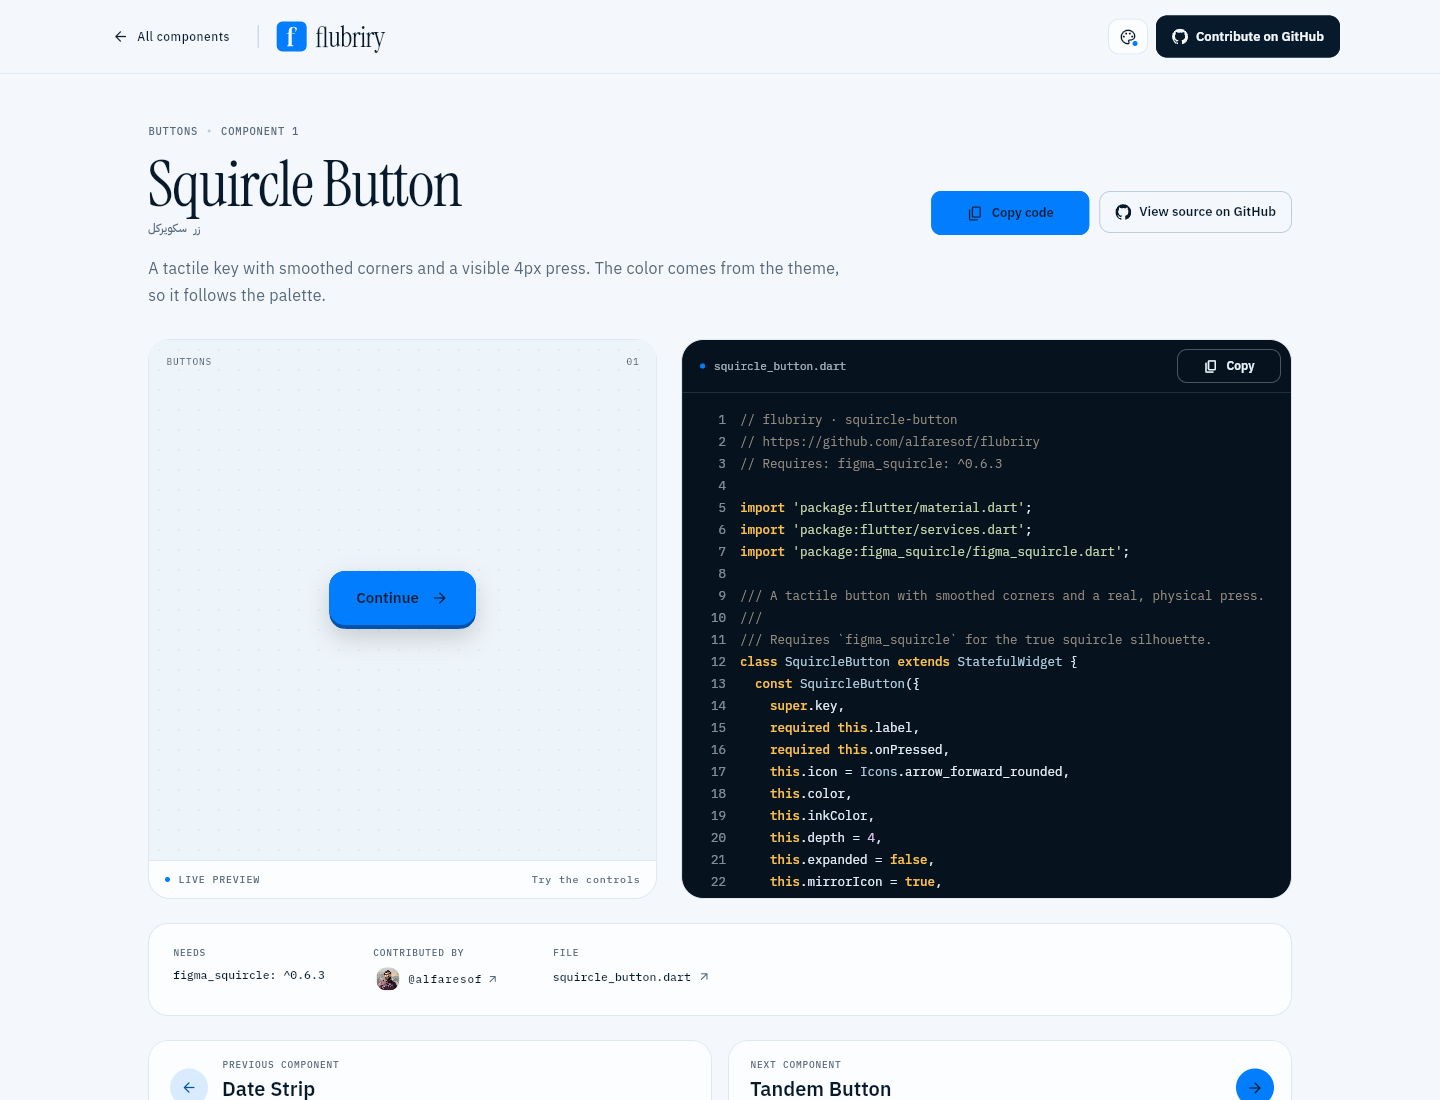
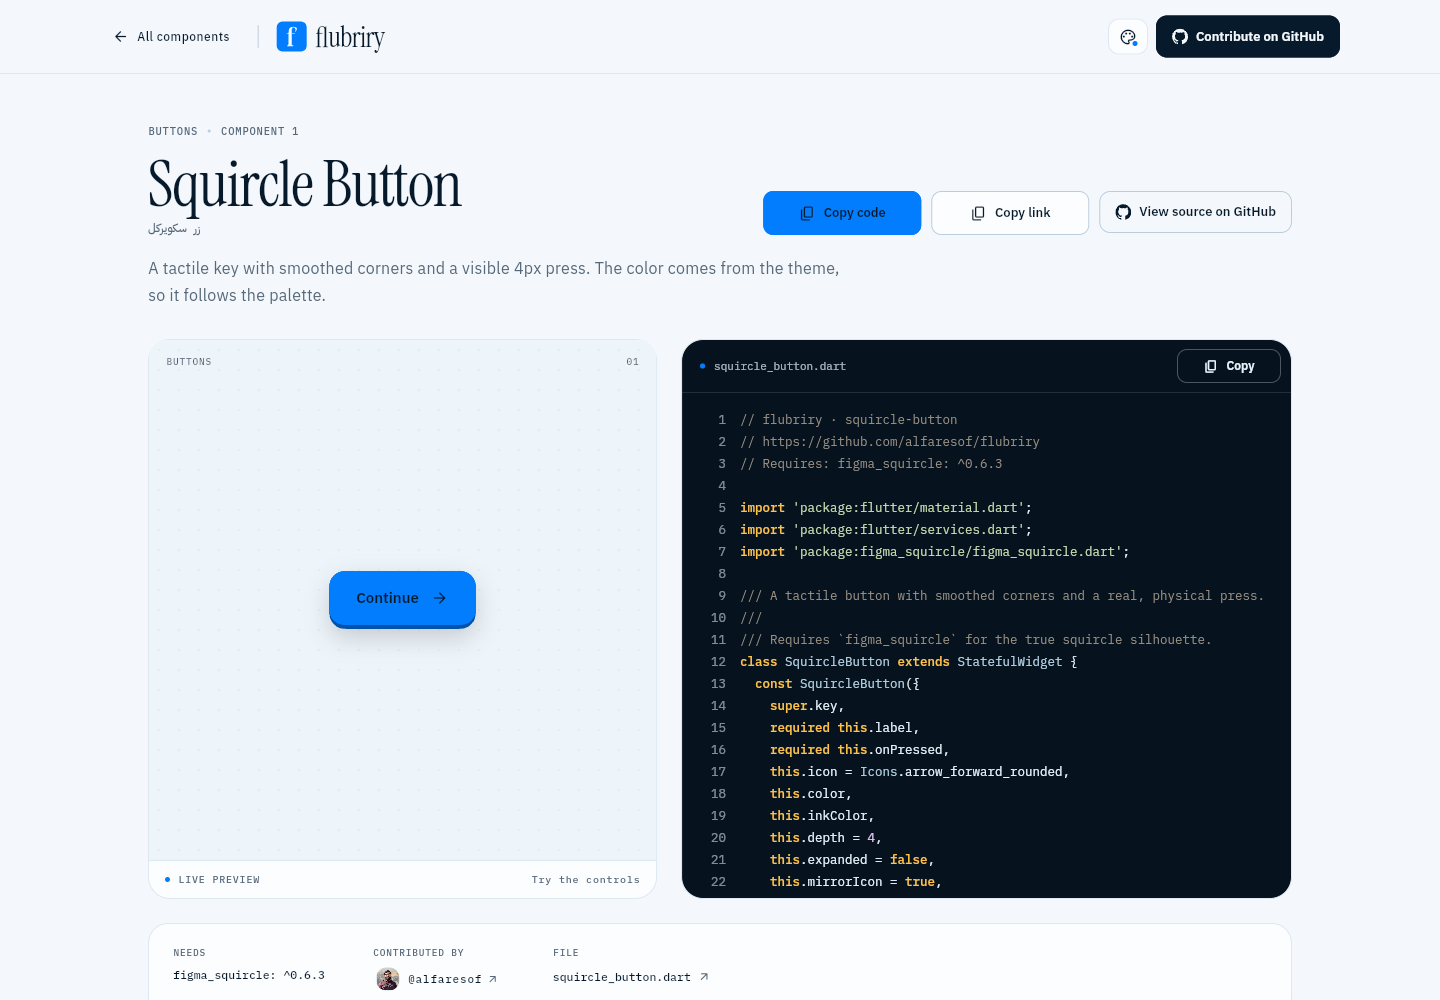
Copy direct go_router links from component pages

diff --git a/lib/views/component/component_detail_page.dart b/lib/views/component/component_detail_page.dart
@@ -1,6 +1,7 @@
 import 'package:flubriry/config/site.dart';
 import 'package:flubriry/views/shared/app_context.dart';
 import 'package:flubriry/services/open_link.dart';
+import 'package:flubriry/services/page_url.dart';
 import 'package:flubriry/theme/app_spacing.dart';
 import 'package:flubriry/theme/app_typography.dart';
 import 'package:flubriry/views/shared/contributor_badge.dart';
@@ -66,6 +67,11 @@ class _ComponentDetailPageState extends State<ComponentDetailPage> {
     final number = ComponentCatalog.all.indexOf(entry) + 1;
     final previous = _previous();
     final next = _next();
+    final browserUrl = currentPageUrl();
+    final route = GoRouterState.of(context).uri.toString();
+    final shareUrl = browserUrl.isNotEmpty
+        ? browserUrl
+        : '${Site.liveUrl}#$route';
 
     return Title(
       title: context.strings.componentPageTitle(
@@ -95,7 +101,12 @@ class _ComponentDetailPageState extends State<ComponentDetailPage> {
                     child: Column(
                       crossAxisAlignment: CrossAxisAlignment.stretch,
                       children: [
-                        _DetailIntro(entry: entry, number: number, wide: wide),
+                        _DetailIntro(
+                          entry: entry,
+                          number: number,
+                          wide: wide,
+                          shareUrl: shareUrl,
+                        ),
                         const SizedBox(height: 30),
                         if (wide)
                           Row(
@@ -205,11 +216,13 @@ class _DetailIntro extends StatelessWidget {
     required this.entry,
     required this.number,
     required this.wide,
+    required this.shareUrl,
   });
 
   final ComponentEntry entry;
   final int number;
   final bool wide;
+  final String shareUrl;
 
   @override
   Widget build(BuildContext context) {
@@ -266,13 +279,13 @@ class _DetailIntro extends StatelessWidget {
             children: [
               Expanded(child: titleBlock),
               const SizedBox(width: 24),
-              _DetailActions(entry: entry),
+              _DetailActions(entry: entry, shareUrl: shareUrl),
             ],
           )
         else ...[
           titleBlock,
           const SizedBox(height: 20),
-          _DetailActions(entry: entry),
+          _DetailActions(entry: entry, shareUrl: shareUrl),
         ],
         const SizedBox(height: 20),
         ConstrainedBox(
@@ -293,9 +306,10 @@ class _DetailIntro extends StatelessWidget {
 }
 
 class _DetailActions extends StatelessWidget {
-  const _DetailActions({required this.entry});
+  const _DetailActions({required this.entry, required this.shareUrl});
 
   final ComponentEntry entry;
+  final String shareUrl;
 
   @override
   Widget build(BuildContext context) {
@@ -309,6 +323,12 @@ class _DetailActions extends StatelessWidget {
           large: true,
           emphasis: true,
           label: strings.copyCode,
+        ),
+        CopyButton(
+          text: shareUrl,
+          large: true,
+          label: strings.copyLink,
+          copiedLabel: strings.linkCopied,
         ),
         GithubButton(
           variant: GithubButtonVariant.quiet,

diff --git a/test/widget_test.dart b/test/widget_test.dart
@@ -130,6 +130,7 @@ void main() {
     await tester.pumpAndSettle();
 
     expect(find.text('Copy code'), findsOneWidget);
+    expect(find.text('Copy link'), findsOneWidget);
     expect(find.text('@alfaresof'), findsWidgets);
     expect(find.byType(SelectionArea), findsOneWidget);
     expect(
@@ -163,6 +164,45 @@ void main() {
 
     expect(find.text('Copy code'), findsNothing);
     expect(tester.takeException(), isNull);
+  });
+
+  testWidgets('copies the direct go_router link for a component', (
+    tester,
+  ) async {
+    String? clipboard;
+    final messenger =
+        TestDefaultBinaryMessengerBinding.instance.defaultBinaryMessenger;
+    messenger.setMockMethodCallHandler(SystemChannels.platform, (call) async {
+      if (call.method == 'Clipboard.setData') {
+        clipboard =
+            (call.arguments as Map<Object?, Object?>)['text'] as String?;
+        return null;
+      }
+      if (call.method == 'Clipboard.getData') {
+        return <String, Object?>{'text': clipboard};
+      }
+      return null;
+    });
+    addTearDown(
+      () => messenger.setMockMethodCallHandler(SystemChannels.platform, null),
+    );
+
+    await pumpCatalogue(tester);
+    final open = find.byKey(const ValueKey('open-squircle-button'));
+    await tester.ensureVisible(open);
+    await tester.pumpAndSettle();
+    await tester.tap(open);
+    await tester.pumpAndSettle();
+
+    final copyLink = find.text('Copy link');
+    await tester.ensureVisible(copyLink);
+    await tester.pumpAndSettle();
+    await tester.tap(copyLink);
+    await tester.pump();
+
+    expect(clipboard, contains('#/component/squircle-button'));
+    expect(find.text('Link copied'), findsOneWidget);
+    await tester.pump(const Duration(seconds: 2));
   });
 
   testWidgets('appearance dialog changes theme and accent for the app', (

diff --git a/lib/services/app_strings.dart b/lib/services/app_strings.dart
@@ -93,6 +93,8 @@ class AppStrings {
   String get copy => pick('Copy', 'نسخ');
   String get copied => pick('Copied', 'تم النسخ');
   String get copyCode => pick('Copy code', 'انسخ الكود');
+  String get copyLink => pick('Copy link', 'انسخ الرابط');
+  String get linkCopied => pick('Link copied', 'تم نسخ الرابط');
   String get copyFailed => pick(
     'Could not copy. Try selecting the code.',
     'تعذّر النسخ. جرّب تحديد الكود.',

diff --git a/lib/config/site.dart b/lib/config/site.dart
@@ -3,6 +3,7 @@ abstract final class Site {
   static const repo = 'flubriry';
   static const repoUrl = 'https://github.com/$owner/$repo';
   static const githubProfileUrl = 'https://github.com/$owner';
+  static const liveUrl = 'https://$owner.github.io/$repo/';
   static const xUrl = 'https://x.com/$owner';
   static const ownerAvatar = 'assets/images/creator.jpg';
   static const newComponentUrl = '$repoUrl/new/main/lib/components';

diff --git a/lib/services/page_url_stub.dart b/lib/services/page_url_stub.dart
@@ -1,0 +1,3 @@
+/// Non-web builds do not have a browser address bar; callers fall back to the
+/// canonical catalogue URL built from the go_router location.
+String currentPageUrl() => '';

diff --git a/lib/services/page_url_web.dart b/lib/services/page_url_web.dart
@@ -1,0 +1,3 @@
+import 'package:web/web.dart' as web;
+
+String currentPageUrl() => web.window.location.href;

diff --git a/lib/services/page_url.dart b/lib/services/page_url.dart
@@ -1,0 +1,1 @@
+export 'page_url_stub.dart' if (dart.library.js_interop) 'page_url_web.dart';

diff --git a/README.md b/README.md
@@ -24,6 +24,10 @@ Flutter blue.
 - **Light and dark** modes.
 - **Live previews**, a clear **Copy** button, and a full page for every component
   with syntax-highlighted source.
+- **Direct component links** powered by `go_router`. Each detail page has a
+  **Copy link** action that copies its own URL (for example
+  `https://alfaresof.github.io/flubriry/#/component/squircle-button`), and opening
+  that link lands on the same component.
 - **Pagination** of six components per page, plus previous/next navigation on
   component pages.
 - **A full contribution page** linked from the navbar.
